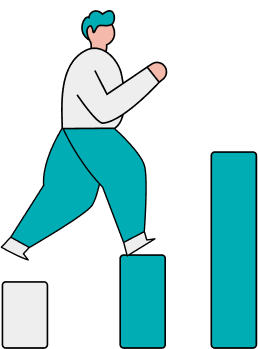
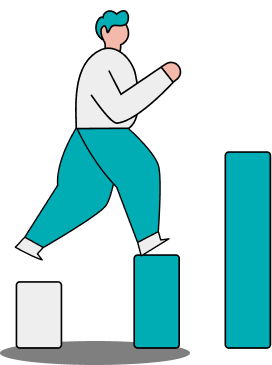
contact section complete

diff --git a/css/style.css b/css/style.css
@@ -17,7 +17,7 @@
   --blue-green: #00ADB5;
   --white: #FFF;
   --light-white: #EEE;
-  --text-shadow: 0px 4px 4px rgba(0,0,0,0.5);
+  --text-shadow: 0px 5px 4px rgba(0,0,0,0.5);
   --light-black-bg: rgba(57,62,70,0.75);
 }
 a{
@@ -115,7 +115,8 @@ header .container{
     color: var(--light-white);
     text-shadow: var(--text-shadow);
     border-radius: 50px; 
-    display: block;
+    display: flex;
+    align-items: center;
     width: 201px;
     margin-left: 24px;
  }
@@ -256,4 +257,141 @@ header .container{
 }
 .image-selection .select-3{
     width: 100%;
+}
+
+/*=========================
+    Contact section start
+===========================*/
+.contact-section{
+    padding: 280px 0 200px;
+    background-color: var(--bg-same);
+}
+.contact-section .container{
+    max-width: 1140px;
+    margin: 0 auto;  
+    display: flex;
+    justify-content: space-between;
+    gap: 160px;
+}
+.contact-details{
+    width: 50%;
+    position: relative;
+}
+.contact-details h1{
+    font-weight: 700;
+    font-size: 60px;
+    line-height: 85px;
+    color: var(--light-white);
+}
+.contact-details .color-it3{
+    color: var(--blue-green);
+}
+.contact-details .string3{
+    position: absolute;
+    transform: rotate(160deg);
+    top: 40%;
+    left: 10%;
+}
+.contact-details .image-3{
+    display: block;
+    width: 50%;
+    margin-left: auto;
+}
+
+.contact-form{
+    width: 50%;
+    position: relative;
+}
+.contact-form .keyboard{
+    position: absolute;
+    top: -30%;
+    left: 20%;
+    width: 26%;
+}
+.contact-form .mail{
+    position: absolute;
+    bottom: -20%;
+    right: 12%;
+    width: 14%;
+}
+.name-form{
+    display: flex;
+    justify-content: space-between;
+    gap: 20px;
+    margin-bottom: 28px;
+}
+.name-form .name-section{
+    width: 100%;
+}
+.name-form .name-section label,
+.name-form .email-section label,
+.messege-section label{
+    display: block;
+    font-weight: 600;
+    font-size: 18px;
+    margin-bottom: 10px;
+    line-height: 27px;
+    color: var(--light-white);
+}
+.name-section input[type="text"]{
+    width: 100%;
+    height: 40px;
+    background: rgba(57, 62, 70, 0.5);
+    border-radius: 10px;
+    padding: 0 0 0 22px;
+    outline: none;
+    font-weight: 500;
+    border: none;
+    caret-color: var(--blue-green);
+    color: rgba(238, 238, 238, 0.5);
+}
+.name-section input[type="text"]::placeholder,
+.email-section input[type="email"]::placeholder,
+.messege-section .text-area::placeholder{
+    color: rgba(238, 238, 238, 0.5);
+}
+
+.name-form .email-section {
+    width: 100%;
+}
+.email-section input[type="email"]{
+    width: 100%;
+    height: 40px;
+    background: rgba(57, 62, 70, 0.5);
+    border-radius: 10px;
+    padding: 0 0 0 22px;
+    outline: none;
+    font-weight: 700;
+    border: none;
+    caret-color: var(--blue-green);
+}
+
+.messege-section {
+    margin-bottom: 22px;
+  }
+.messege-section .text-area{
+    width: 100%;
+    height: 270px;
+    background: rgba(57, 62, 70, 0.5);
+    border-radius: 10px;
+    padding: 22px 0 0 22px;
+    outline: none;
+    font-weight: 700;
+    border: none;
+    resize: none;
+    caret-color: var(--blue-green);
+}
+
+.contact-form .btn-send{
+    padding: 10px 32px;
+    background: var(--blue-green);
+    color: var(--light-white);
+    text-shadow: var(--text-shadow);
+    border-radius: 50px;
+    display: flex;
+    align-items: center;
+    width: 210px;
+}
+.contact-form .bx-navigation{
+    margin-left: 12px;
 }

diff --git a/index.html b/index.html
@@ -51,7 +51,7 @@
                 <img src="image/img-1.png" alt="images" class="simage">
             </div>
             <a href="#">
-                <img src="image/Frame-7.png" alt="" class="down-arrow">
+                <img src="image/Frame-7.png" alt="images" class="down-arrow">
             </a>
         </div>
     </section>
@@ -99,10 +99,43 @@
        </section>
     <!--  Project section end  -->
 
+    <!--  Contact section start  -->
+       <section class="contact-section">
+        <div class="container">
+            <div class="contact-details">
+                <h1>Got a project in <span class="color-it3">mind?</span></h1>
+                <img src="image/string.png" alt="image" class="string3">
+                <img src="image/img-3.png" alt="image" class="image-3">
+            </div>
+            <div class="contact-form">
+                <img src="image/keyboard.png" alt="image" class="keyboard">
+                <img src="image/mail.png" alt="image" class="mail">
+                <form method="POST">
+                    <div class="name-form">
+                        <div class="name-section">
+                            <label for="name">Your name</label>
+                            <input type="text" name="name" placeholder="Name" required="required" autocomplete="off">
+                        </div>
+                        <div class="email-section">
+                            <label for="email">Your email</label>
+                            <input type="email" name="email" placeholder="email" required="required" autocomplete="off">
+                        </div>
+                    </div>
+                    <div class="messege-section">
+                        <label for="messege">Your Message</label>
+                        <textarea placeholder="Message" class="text-area"></textarea>
+                    </div>
+                    <a href="#" class="btn-send">Send Message<i class='bx bx-navigation'></i></a>
+                </form>
+            </div>
+        </div>
+       </section>
+    <!--  contact section end  -->
+
 
 
     <!--  Jquery Original CDN linkup file  -->
-    <script src="https://ajax.googleapis.com/ajax/libs/jquery/3.6.3/jquery.min.js"></script>
+    <script src="https://ajax.googleapis.com/ajax/libs/jquery/2.2.4/jquery.min.js"></script>
 
     <!--  Main Js linkup file  -->
     <script src="js/main.js"></script>
